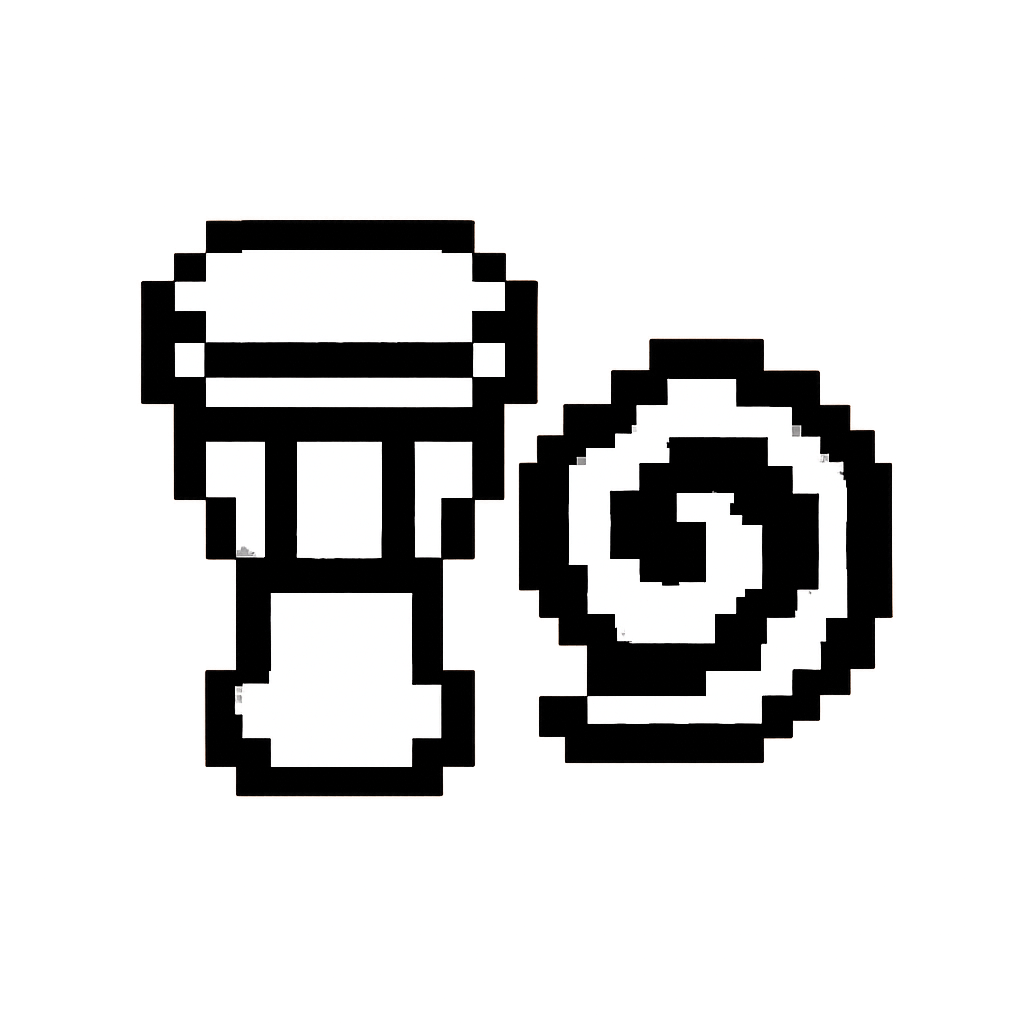
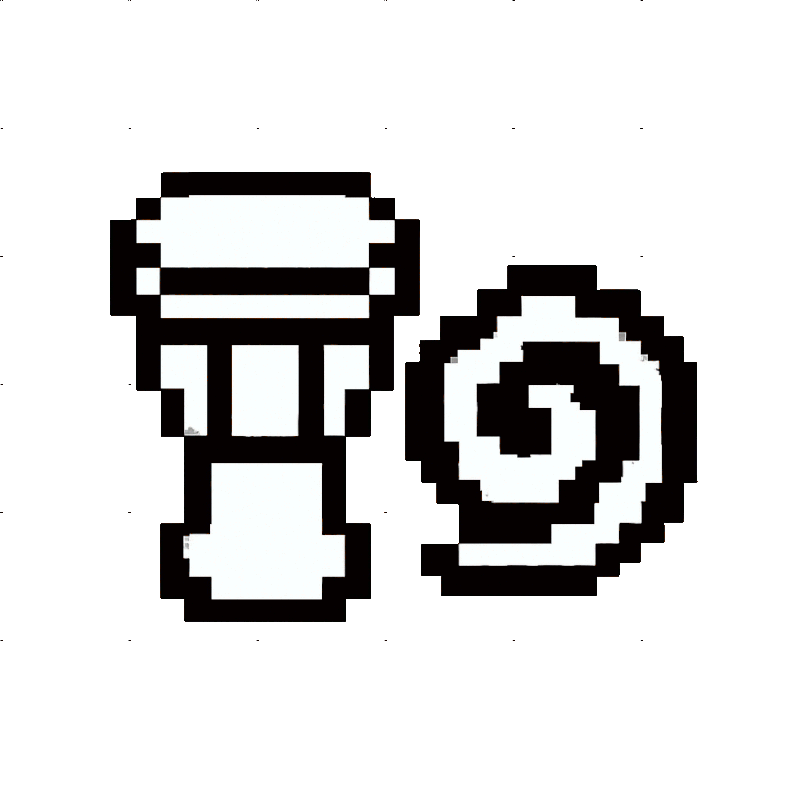
Content: New post and resized static images

diff --git a/content/blog/nonewcoal.md b/content/blog/nonewcoal.md
@@ -1,0 +1,29 @@
++++
+title = 'No New Coal'
+description = ''
+date = 2008-08-02T14:18:27+01:00
+draft = false
+author = "Alexander"
++++
+
+<figure style="text-align: center">
+  <img style="display:block;margin:auto" src="https://i.ibb.co/JW7RDFJ8/eon-foff.jpg">
+</figure>
+
+{{< divider >}}
+ 
+ I spent the day at the Climate Camp 2008 on the Hoo Peninsula. I expected the police searches which I and everyone entering the site was subjected to. What I did not expect were the *rules* about photography on site.
+
+After bothering to do the right thing and speak to the relevant people on site about my intentions with a camera I was effectively told "...your not allowed". The person with the appointed responsibility to convey this message was unable to distinguish any difference between me despite explaining what I was about and promising to share everything I took with them for *screening* and unrestricted use, and the press and media. A collective decision has been made; I was told there would be no photography allowed on site today, "...even those that are living and working here have agreed not to take pictures". People were apparently feeling very sensitive about the police taking their pictures over the preceding few days. There were exceptions to the rule it seems as later I saw two people *officially* videoing and taking pictures of the goings on. That was alright though - they had obviously given themselves permission to do so!
+
+As someone who lives locally and that has supported and contributed to the campaign against Kingsnorth from the start, being told by some jobsworth committee member who's only connection with Medway is the Climate Camp that I can't take pictures really riled me.
+
+The hypocrisy is that there was so much hand wringing and righteousness about the erosion of civil liberties by the police but they could not see that they had fallen into the ways of their *oppressors* after just three days on site.
+
+I stuck around anyway and helped out unloading marquis and building a toilet. I made some friends. They were happy enough for me to take their picture but asked me not to post them on the internet (or give them to the police) hence you will not see them here. 
+
+For anyone interested the *official* time for *media"* (that includes anyone with a camera) will be between something like 11am and 1pm on the 03/08/08 - I can't be sure I'd lost interest by then. There may be other *official* times but I suppose that will be decided as the week goes by. 
+
+The parting shot was maybe I could leave my details and their *media man* may get in touch with me to arrange less restricted access. I did but I get a feeling I might not get that call. We'll see.
+
+I fully support the campaign to stop Eon building a new coal fired power station at Kingsnorth. I think the Climate Camp is worthwhile. I think anyone that restricts the choice and freedom of anyone else is a complete arse. 
